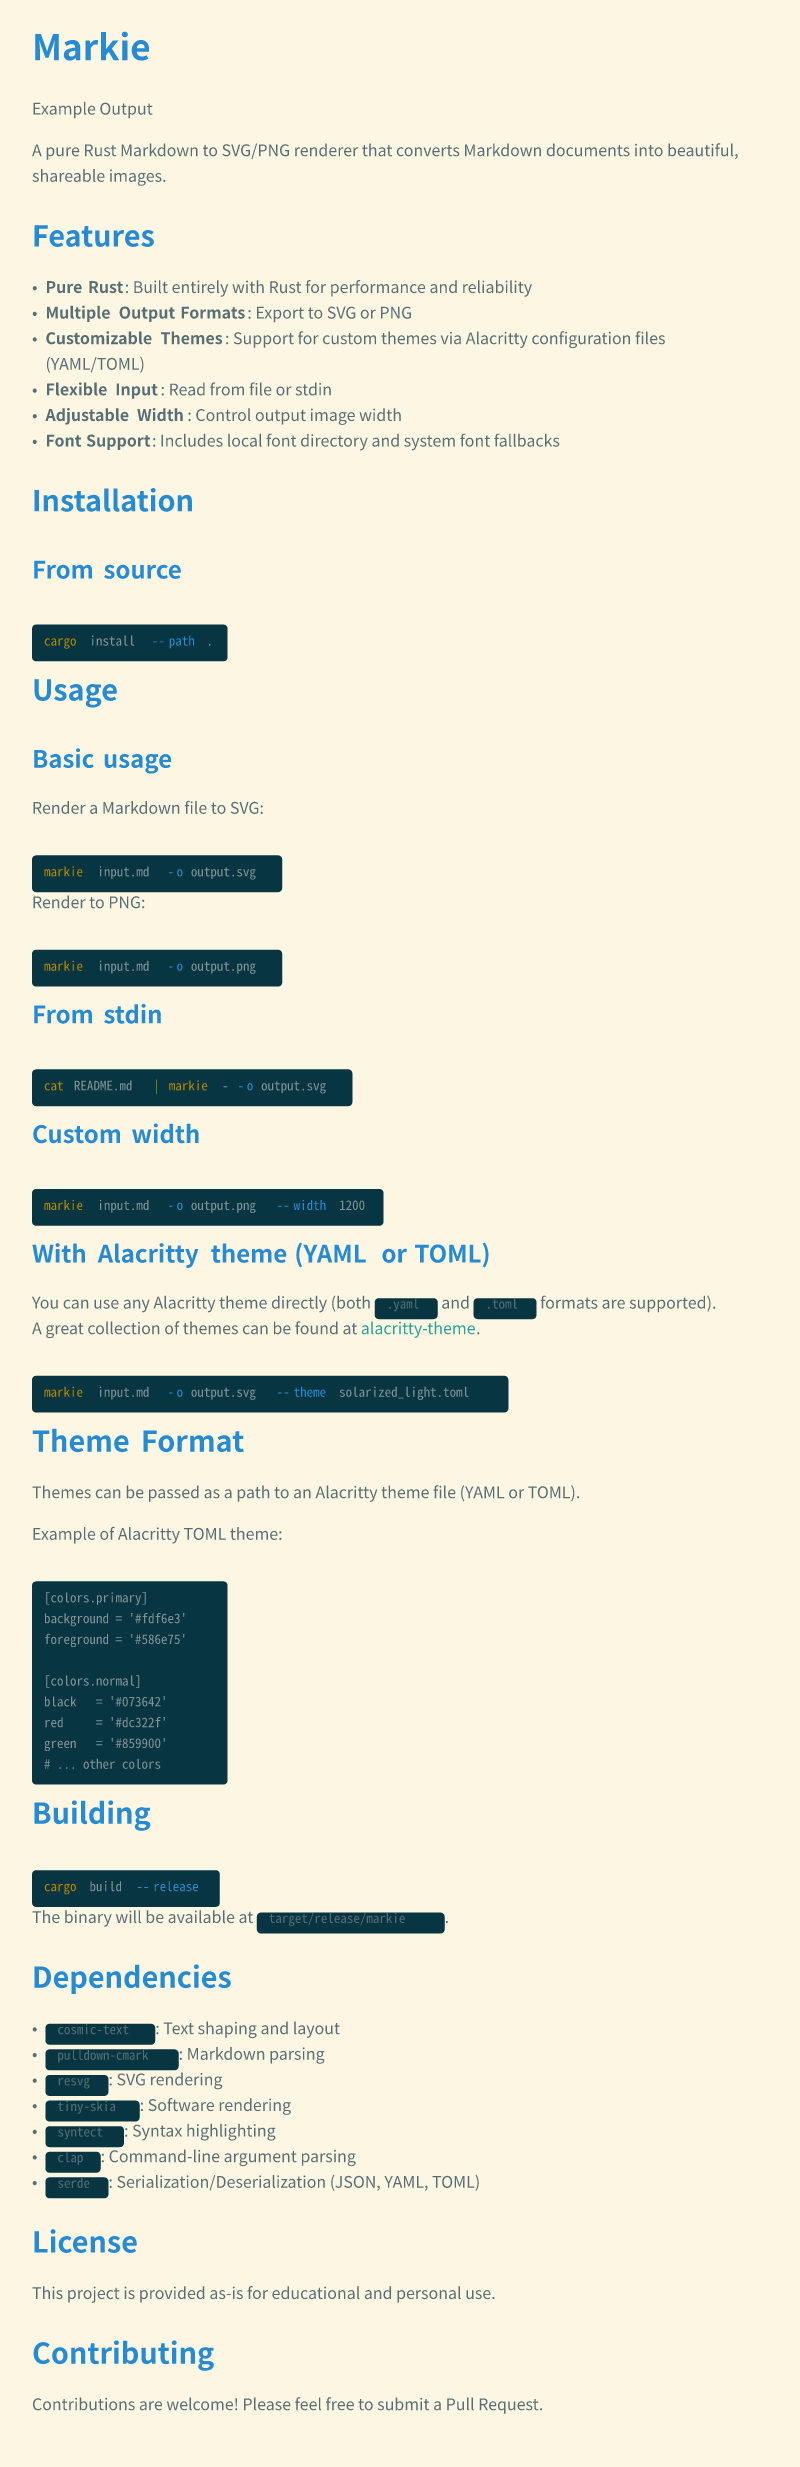
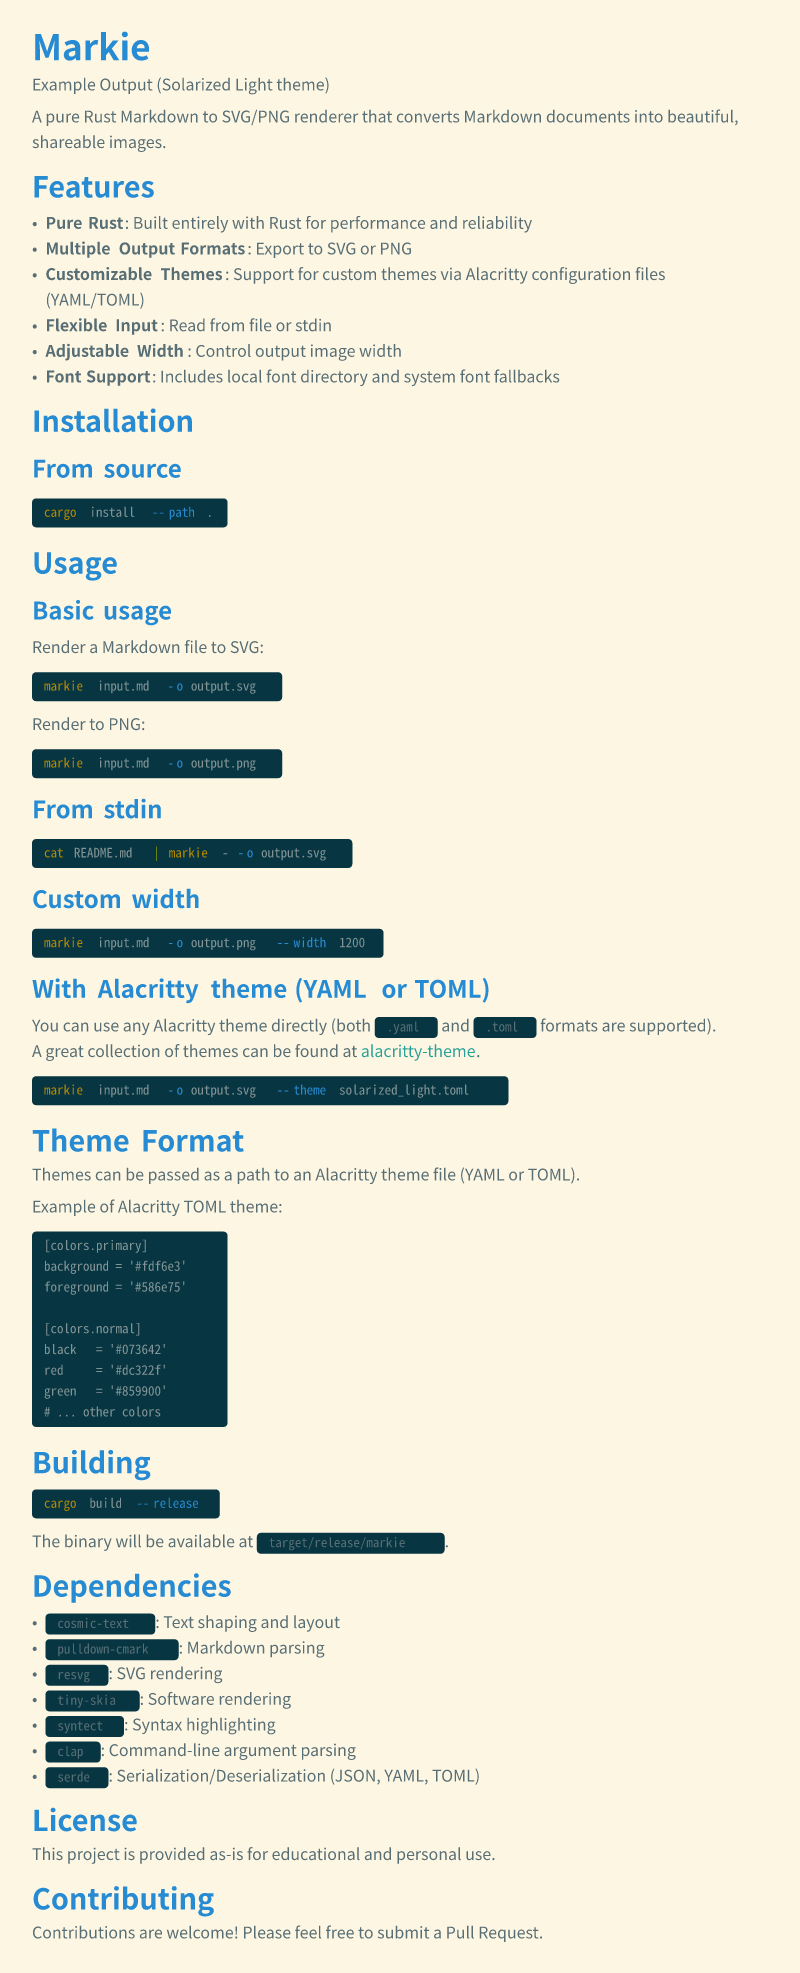
Fix list/header spacing and regenerate Solarized README assets

diff --git a/src/renderer.rs b/src/renderer.rs
@@ -232,13 +232,14 @@ impl<T: TextMeasure> Renderer<T> {
                     HeadingLevel::H3 => 1.3,
                     _ => 1.15,
                 };
-                self.start_block(self.theme.margin_top * top_margin_scale);
+                self.start_block(self.theme.margin_top * top_margin_scale, true);
             }
             Tag::Paragraph => {
-                self.start_block(0.0);
+                let paragraph_needs_ascent = self.item_continuation_indent.is_none();
+                self.start_block(0.0, paragraph_needs_ascent);
             }
             Tag::CodeBlock(kind) => {
-                self.start_block(0.0);
+                self.start_block(0.0, false);
                 self.in_code_block = true;
                 self.code_block_buffer.clear();
                 self.code_block_lang = match kind {
@@ -248,7 +249,7 @@ impl<T: TextMeasure> Renderer<T> {
             }
             Tag::List(start) => {
                 if self.list_stack.is_empty() {
-                    self.start_block(0.0);
+                    self.start_block(self.theme.margin_top * 0.8, false);
                 } else if !self.at_line_start {
                     self.new_line();
                 }
@@ -260,7 +261,7 @@ impl<T: TextMeasure> Renderer<T> {
             }
             Tag::Item => self.start_list_item()?,
             Tag::BlockQuote(_) => {
-                self.start_block(0.0);
+                self.start_block(0.0, false);
                 self.start_blockquote();
             }
             Tag::Link { .. } => self.link_depth += 1,
@@ -290,9 +291,7 @@ impl<T: TextMeasure> Renderer<T> {
             TagEnd::List(_) => {
                 self.list_stack.pop();
                 if self.list_stack.is_empty() {
-                    self.add_margin(self.theme.margin_bottom);
-                    self.cursor_x = self.line_start_x();
-                    self.at_line_start = true;
+                    self.finish_block(self.theme.margin_bottom);
                 }
             }
             TagEnd::BlockQuote(_) => {
@@ -400,8 +399,8 @@ impl<T: TextMeasure> Renderer<T> {
 
         // Tighter background box based on font size
         let rect_height = self.theme.font_size_code + self.theme.code_padding_y;
-        // Align roughly to baseline - ascent + padding
-        let rect_y = self.cursor_y - self.theme.font_size_code * 0.8;
+        // Align roughly to baseline - ascent, then split padding top/bottom
+        let rect_y = self.cursor_y - self.theme.font_size_code * 0.8 - self.theme.code_padding_y / 2.0;
 
         self.svg_content.push_str(&format!(
             r#"<rect x="{:.2}" y="{:.2}" width="{:.2}" height="{:.2}" rx="{:.2}" fill="{}" />"#,
@@ -507,7 +506,9 @@ impl<T: TextMeasure> Renderer<T> {
         }
 
         let line_height = self.theme.font_size_code * self.theme.line_height;
-        let block_height = lines.len() as f32 * line_height + self.theme.code_padding_y * 2.0;
+        let block_height = (lines.len().saturating_sub(1) as f32) * line_height
+            + self.theme.font_size_code
+            + self.theme.code_padding_y * 2.0;
         let block_width = max_line_width + self.theme.code_padding_x * 2.0;
 
         self.svg_content.push_str(&format!(
@@ -523,7 +524,7 @@ impl<T: TextMeasure> Renderer<T> {
         for (idx, line_segments) in lines.iter().enumerate() {
             let y = self.cursor_y
                 + self.theme.code_padding_y
-                + self.theme.font_size_code
+                + self.theme.font_size_code * 0.8
                 + idx as f32 * line_height;
 
             let mut current_x = x + self.theme.code_padding_x;
@@ -639,7 +640,10 @@ impl<T: TextMeasure> Renderer<T> {
     }
 
     fn start_list_item(&mut self) -> Result<(), String> {
-        if !self.at_line_start {
+        if self.at_line_start {
+            // Move from list block top to first list-item baseline.
+            self.cursor_y += self.theme.font_size_base * 0.8;
+        } else {
             self.new_line();
         }
 
@@ -675,9 +679,6 @@ impl<T: TextMeasure> Renderer<T> {
 
     fn end_list_item(&mut self) {
         self.item_continuation_indent = None;
-        if !self.at_line_start {
-            self.new_line();
-        }
     }
 
     fn start_blockquote(&mut self) {
@@ -709,13 +710,19 @@ impl<T: TextMeasure> Renderer<T> {
         }
     }
 
-    fn start_block(&mut self, margin_top: f32) {
+    fn start_block(&mut self, margin_top: f32, add_ascent: bool) {
         if !self.svg_content.is_empty() {
             if !self.at_line_start {
-                self.new_line();
+                // Move from current baseline to current line bottom.
+                self.cursor_y += self.current_font_size() * 0.2;
+                self.cursor_x = self.line_start_x();
+                self.at_line_start = true;
             }
             self.add_margin(margin_top);
-        } else {
+        }
+
+        if add_ascent {
+            // Move from block top to first baseline.
             self.cursor_y += self.current_font_size() * 0.8;
         }
 
@@ -725,7 +732,10 @@ impl<T: TextMeasure> Renderer<T> {
 
     fn finish_block(&mut self, margin_bottom: f32) {
         if !self.at_line_start {
-            self.new_line();
+            // Move from current baseline to current line bottom.
+            self.cursor_y += self.current_font_size() * 0.2;
+            self.cursor_x = self.line_start_x();
+            self.at_line_start = true;
         }
 
         self.add_margin(margin_bottom);
@@ -734,7 +744,11 @@ impl<T: TextMeasure> Renderer<T> {
     }
 
     fn add_margin(&mut self, margin: f32) {
-        self.cursor_y += margin;
+        // Collapse consecutive vertical margins by applying only the delta
+        // between the new margin and the previously applied one.
+        if margin > self.last_margin_added {
+            self.cursor_y += margin - self.last_margin_added;
+        }
         self.last_margin_added = margin;
     }
 
@@ -839,6 +853,8 @@ impl<T: TextMeasure> Renderer<T> {
         bold: bool,
         italic: bool,
     ) {
+        self.last_margin_added = 0.0;
+
         let weight_attr = if bold { " font-weight=\"700\"" } else { "" };
         let style_attr = if italic { " font-style=\"italic\"" } else { "" };
 

diff --git a/README.md b/README.md
@@ -1,6 +1,6 @@
 # Markie
 
-![Example Output](README.svg)
+![Example Output (Solarized Light theme)](README.png)
 
 A pure Rust Markdown to SVG/PNG renderer that converts Markdown documents into beautiful, shareable images.
 
